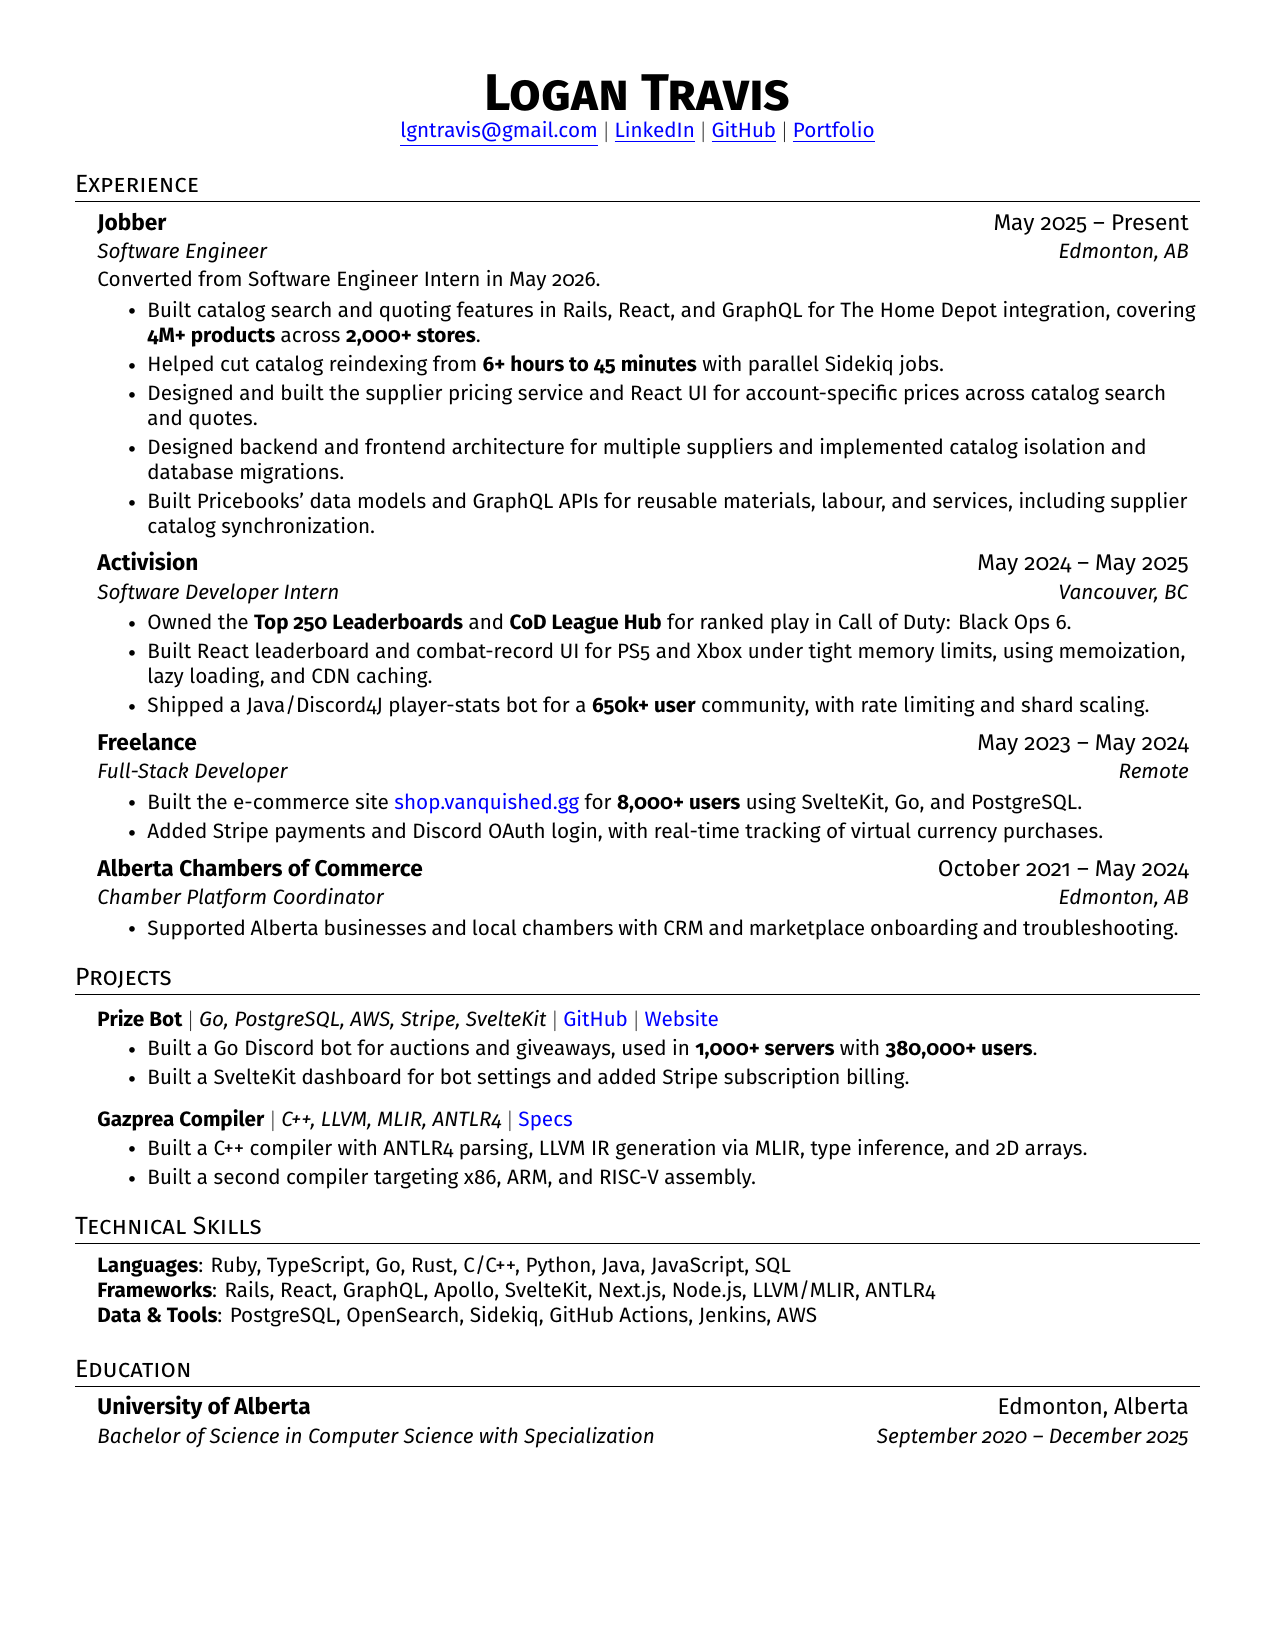
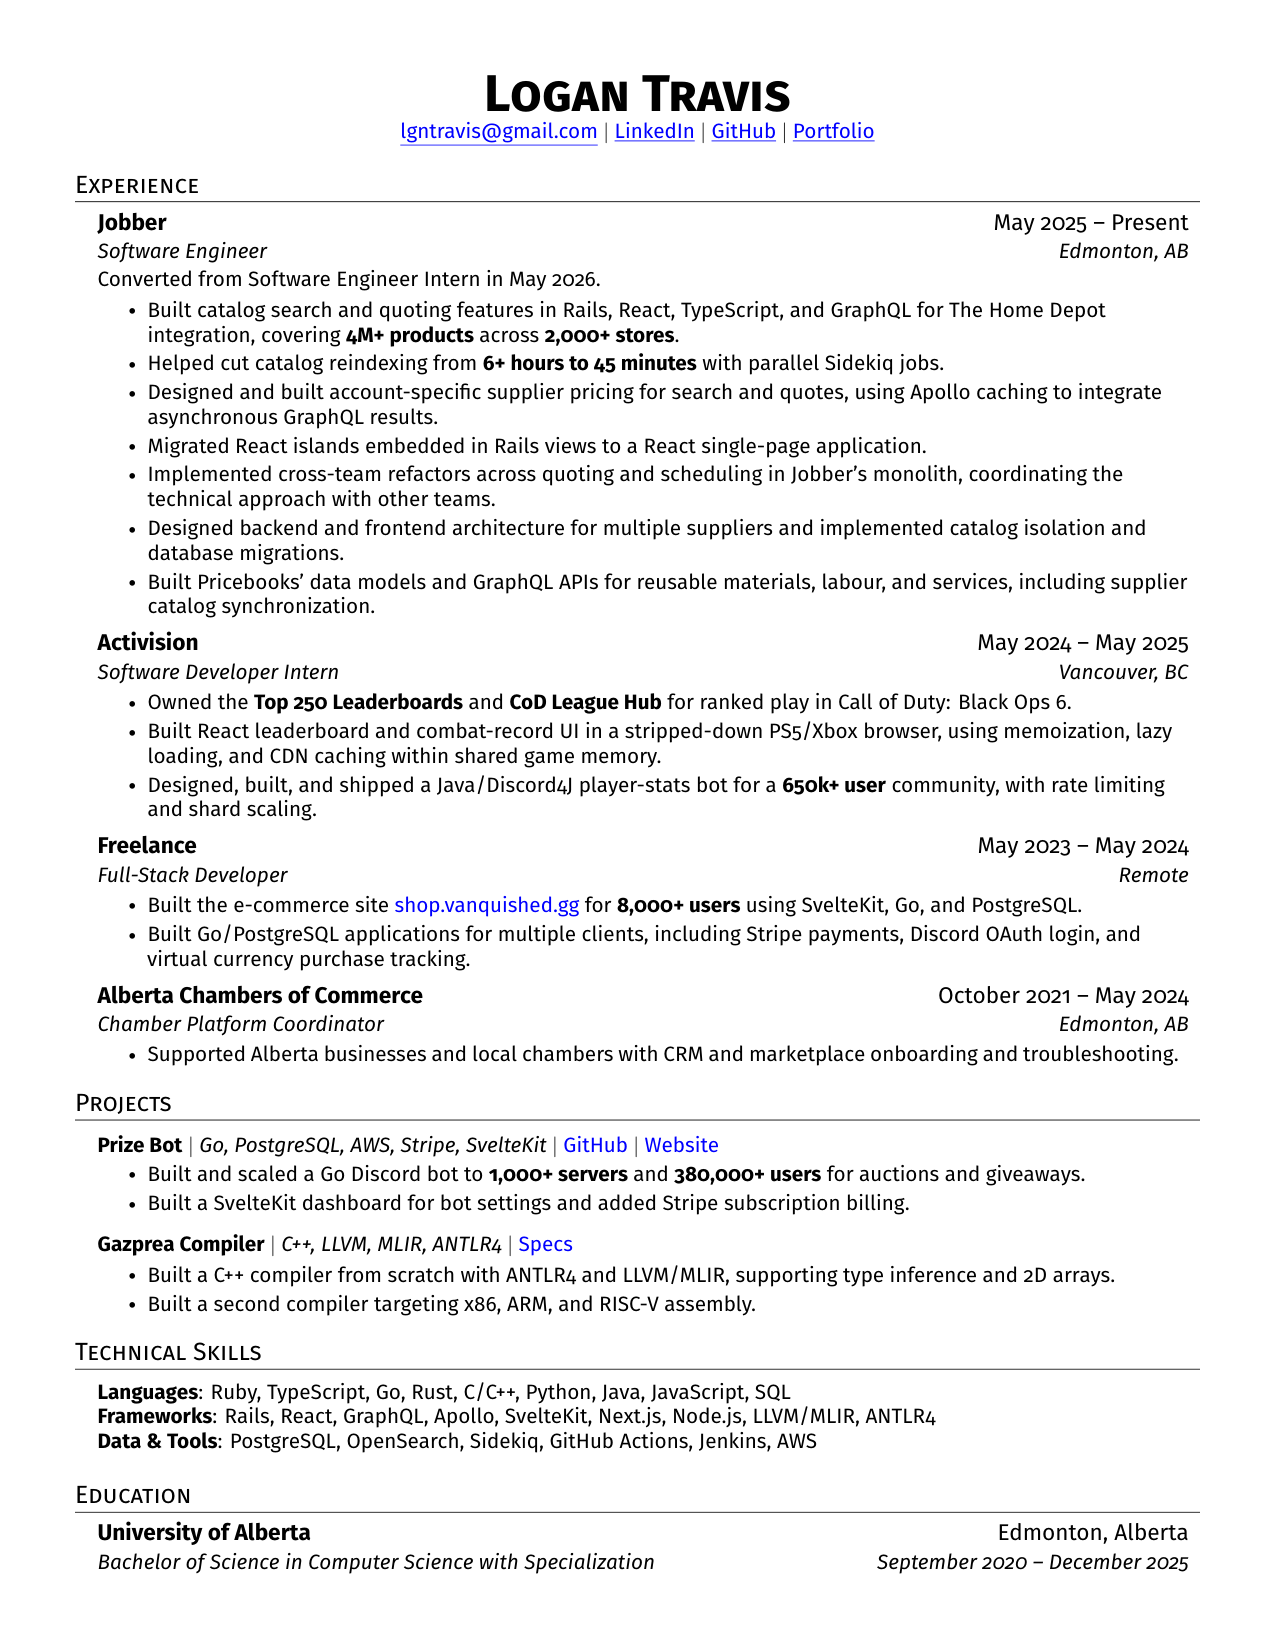
Restore substantial experience from original resumes

diff --git a/2-page/resume.tex b/2-page/resume.tex
@@ -151,9 +151,11 @@
 {Software Engineer}{Edmonton, AB}
 {Converted from Software Engineer Intern in May 2026.}
 \resumeItemListStart
-\resumeItem{Built catalog search and quoting features in Rails, React, and GraphQL for The Home Depot integration, covering \textbf{4M+ products} across \textbf{2,000+ stores}.}
+\resumeItem{Built catalog search and quoting features in Rails, React, TypeScript, and GraphQL for The Home Depot integration, covering \textbf{4M+ products} across \textbf{2,000+ stores}.}
 \resumeItem{Helped cut catalog reindexing from \textbf{6+ hours to 45 minutes} with parallel Sidekiq jobs.}
-\resumeItem{Designed and built the supplier pricing service and React UI so customers could use their account-specific supplier prices across catalog search and quotes.}
+\resumeItem{Designed and built the supplier pricing service and React UI for account-specific prices across search and quotes. Used Apollo caching and useFragment hooks to incorporate supplier pricing after the initial GraphQL response.}
+\resumeItem{Migrated React islands embedded in Rails views to a React single-page application.}
+\resumeItem{Implemented cross-team refactors across quotes, scheduling, and other domains in Jobber's monolith, coordinating the technical approach with other teams.}
 \resumeItem{Designed Supply's backend and frontend architecture for multiple suppliers, covering catalogs, account connections, and pricing. Implemented catalog isolation and database migrations.}
 \resumeItem{Built Pricebooks' data models and GraphQL APIs for reusable materials, labour, and services, including supplier catalog synchronization.}
 \resumeItemListEnd
@@ -163,8 +165,8 @@
 {Software Developer Intern}{Vancouver, BC}
 \resumeItemListStart
 \resumeItem{Owned the \textbf{Top 250 Leaderboards} and \textbf{CoD League Hub} for ranked play in Call of Duty: Black Ops 6.}
-\resumeItem{Built React leaderboard and combat-record UI for PS5 and Xbox under tight memory limits, using memoization, lazy loading, and CDN caching.}
-\resumeItem{Shipped a Java/Discord4J player-stats bot for a \textbf{650k+ user} community, with rate limiting and shard scaling.}
+\resumeItem{Built leaderboard and combat-record UI in a stripped-down React runtime inside the game's browser on PS5 and Xbox. Used memoization, lazy loading, and CDN caching to fit within memory left by the game.}
+\resumeItem{Designed, built, and shipped a Java/Discord4J player-stats bot from scratch for a \textbf{650k+ user} community, with rate limiting and shard scaling; prototyped distributed sharding.}
 \resumeItemListEnd
 
 \resumeSubheading
@@ -173,6 +175,7 @@
 \resumeItemListStart
 \resumeItem{Built the e-commerce site \href{https://shop.vanquished.gg}{shop.vanquished.gg} for \textbf{8,000+ users} using SvelteKit, Go, and PostgreSQL.}
 \resumeItem{Added Stripe payments and Discord OAuth login, with real-time tracking of virtual currency purchases.}
+\resumeItem{Built Go and PostgreSQL applications for multiple clients with authentication and payment integrations.}
 \resumeItemListEnd
 
 \resumeSubheading
@@ -191,8 +194,8 @@
     \small{
     \item{
         \textbf{Languages}{: Ruby, TypeScript, Go, Rust, C/C++, Python, Java, JavaScript, SQL, x86/ARM/RISC-V Assembly} \\
-        \textbf{Frameworks}{: Rails, React, GraphQL, Apollo, SvelteKit, Next.js, Node.js, LLVM/MLIR, ANTLR4} \\
-        \textbf{Data \& Tools}{: PostgreSQL, OpenSearch, Sidekiq, GitHub Actions, Jenkins, AWS}
+        \textbf{Frameworks}{: Rails, React, React Native, GraphQL, Apollo, SvelteKit, Next.js, Node.js, Rocket, Tailwind, HTMX, LLVM/MLIR, ANTLR4} \\
+        \textbf{Data \& Tools}{: PostgreSQL, OpenSearch, Sidekiq, GitHub Actions, Jenkins, Jest, AWS}
     }}
 \end{itemize}
 
@@ -221,7 +224,7 @@
 \resumeProjectHeading
 {\textbf{Prize Bot} $|$ \emph{Go, PostgreSQL, AWS, Stripe, SvelteKit} $|$ \href{https://github.com/Logan9312/Prize-Bot-V1}{GitHub} $|$ \href{https://www.prizebot.dev/}{Website}}{}
 \resumeItemListStart
-\resumeItem{Built a Go Discord bot used in \textbf{1,000+ servers} with \textbf{380,000+ users}. Added auctions, giveaways, and a ticket system for prize distribution.}
+\resumeItem{Built and scaled a Go Discord bot to \textbf{1,000+ servers} and \textbf{380,000+ users}, with auctions, giveaways, and automated tickets for prize distribution.}
 \resumeItem{Built a SvelteKit dashboard for configuring the bot.}
 \resumeItem{Added Stripe subscription billing and stored bot data in PostgreSQL.}
 \resumeItemListEnd
@@ -229,9 +232,9 @@
 \resumeProjectHeading
 {\textbf{Gazprea Compiler} $|$ \emph{C++, LLVM, MLIR, ANTLR4} $|$ \href{https://cmput415.github.io/415-docs/gazprea/}{Specs}}{}
 \resumeItemListStart
-\resumeItem{Built a C++ compiler with ANTLR4 parsing and LLVM IR generation through MLIR.}
+\resumeItem{Built a C++ compiler from scratch with ANTLR4 parsing and LLVM IR generation through MLIR.}
 \resumeItem{Implemented functions, loops, conditionals, type inference, and 2D array operations.}
-\resumeItem{Set up self-hosted GitHub Actions to run compiler tests in parallel.}
+\resumeItem{Set up self-hosted GitHub Actions to run hundreds of compiler tests in parallel for benchmarking and feature coverage.}
 \resumeItem{Built a second compiler targeting x86, ARM, and RISC-V assembly.}
 \resumeItemListEnd
 

diff --git a/resume.tex b/resume.tex
@@ -151,9 +151,11 @@
 {Software Engineer}{Edmonton, AB}
 {Converted from Software Engineer Intern in May 2026.}
 \resumeItemListStart
-\resumeItem{Built catalog search and quoting features in Rails, React, and GraphQL for The Home Depot integration, covering \textbf{4M+ products} across \textbf{2,000+ stores}.}
+\resumeItem{Built catalog search and quoting features in Rails, React, TypeScript, and GraphQL for The Home Depot integration, covering \textbf{4M+ products} across \textbf{2,000+ stores}.}
 \resumeItem{Helped cut catalog reindexing from \textbf{6+ hours to 45 minutes} with parallel Sidekiq jobs.}
-\resumeItem{Designed and built the supplier pricing service and React UI for account-specific prices across catalog search and quotes.}
+\resumeItem{Designed and built account-specific supplier pricing for search and quotes, using Apollo caching to integrate asynchronous GraphQL results.}
+\resumeItem{Migrated React islands embedded in Rails views to a React single-page application.}
+\resumeItem{Implemented cross-team refactors across quoting and scheduling in Jobber's monolith, coordinating the technical approach with other teams.}
 \resumeItem{Designed backend and frontend architecture for multiple suppliers and implemented catalog isolation and database migrations.}
 \resumeItem{Built Pricebooks' data models and GraphQL APIs for reusable materials, labour, and services, including supplier catalog synchronization.}
 \resumeItemListEnd
@@ -163,8 +165,8 @@
 {Software Developer Intern}{Vancouver, BC}
 \resumeItemListStart
 \resumeItem{Owned the \textbf{Top 250 Leaderboards} and \textbf{CoD League Hub} for ranked play in Call of Duty: Black Ops 6.}
-\resumeItem{Built React leaderboard and combat-record UI for PS5 and Xbox under tight memory limits, using memoization, lazy loading, and CDN caching.}
-\resumeItem{Shipped a Java/Discord4J player-stats bot for a \textbf{650k+ user} community, with rate limiting and shard scaling.}
+\resumeItem{Built React leaderboard and combat-record UI in a stripped-down PS5/Xbox browser, using memoization, lazy loading, and CDN caching within shared game memory.}
+\resumeItem{Designed, built, and shipped a Java/Discord4J player-stats bot for a \textbf{650k+ user} community, with rate limiting and shard scaling.}
 \resumeItemListEnd
 
 \resumeSubheading
@@ -172,7 +174,7 @@
 {Full-Stack Developer}{Remote}
 \resumeItemListStart
 \resumeItem{Built the e-commerce site \href{https://shop.vanquished.gg}{shop.vanquished.gg} for \textbf{8,000+ users} using SvelteKit, Go, and PostgreSQL.}
-\resumeItem{Added Stripe payments and Discord OAuth login, with real-time tracking of virtual currency purchases.}
+\resumeItem{Built Go/PostgreSQL applications for multiple clients, including Stripe payments, Discord OAuth login, and virtual currency purchase tracking.}
 \resumeItemListEnd
 
 \resumeSubheading
@@ -190,14 +192,14 @@
 \resumeProjectHeading
 {\textbf{Prize Bot} $|$ \emph{Go, PostgreSQL, AWS, Stripe, SvelteKit} $|$ \href{https://github.com/Logan9312/Prize-Bot-V1}{GitHub} $|$ \href{https://www.prizebot.dev/}{Website}} {}
 \resumeItemListStart
-\resumeItem{Built a Go Discord bot for auctions and giveaways, used in \textbf{1,000+ servers} with \textbf{380,000+ users}.}
+\resumeItem{Built and scaled a Go Discord bot to \textbf{1,000+ servers} and \textbf{380,000+ users} for auctions and giveaways.}
 \resumeItem{Built a SvelteKit dashboard for bot settings and added Stripe subscription billing.}
 \resumeItemListEnd
 
 \resumeProjectHeading
 {\textbf{Gazprea Compiler} $|$ \emph{C++, LLVM, MLIR, ANTLR4} $|$ \href{https://cmput415.github.io/415-docs/gazprea/}{Specs}}{}
 \resumeItemListStart
-\resumeItem{Built a C++ compiler with ANTLR4 parsing, LLVM IR generation via MLIR, type inference, and 2D arrays.}
+\resumeItem{Built a C++ compiler from scratch with ANTLR4 and LLVM/MLIR, supporting type inference and 2D arrays.}
 \resumeItem{Built a second compiler targeting x86, ARM, and RISC-V assembly.}
 \resumeItemListEnd
 
